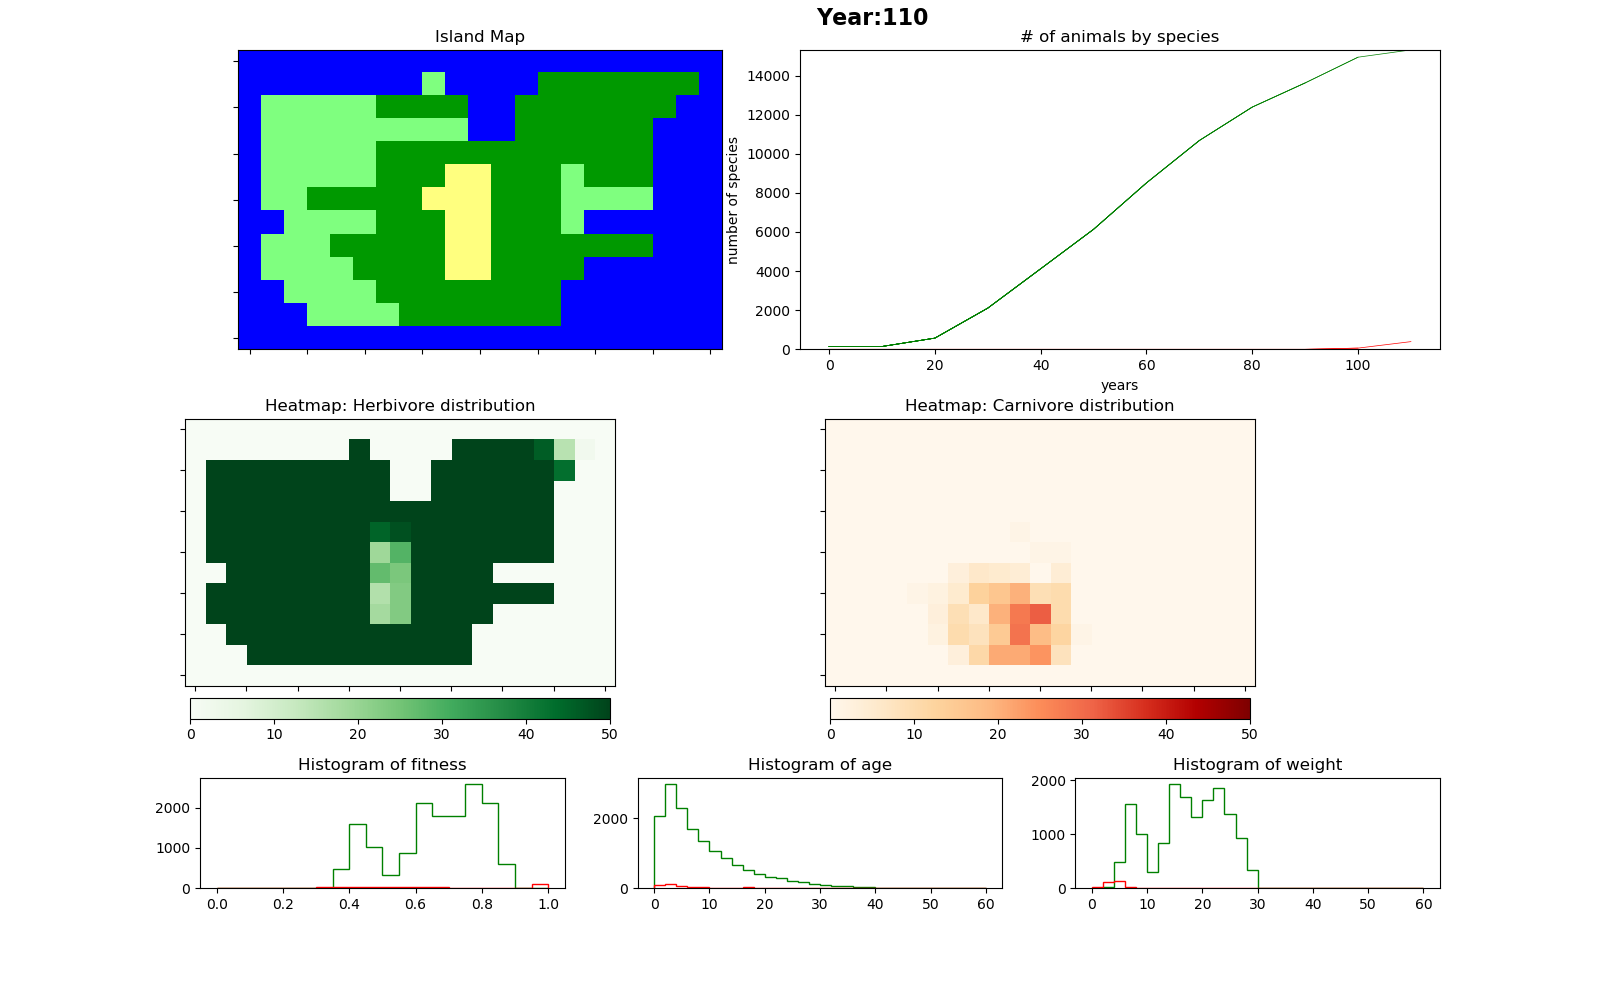
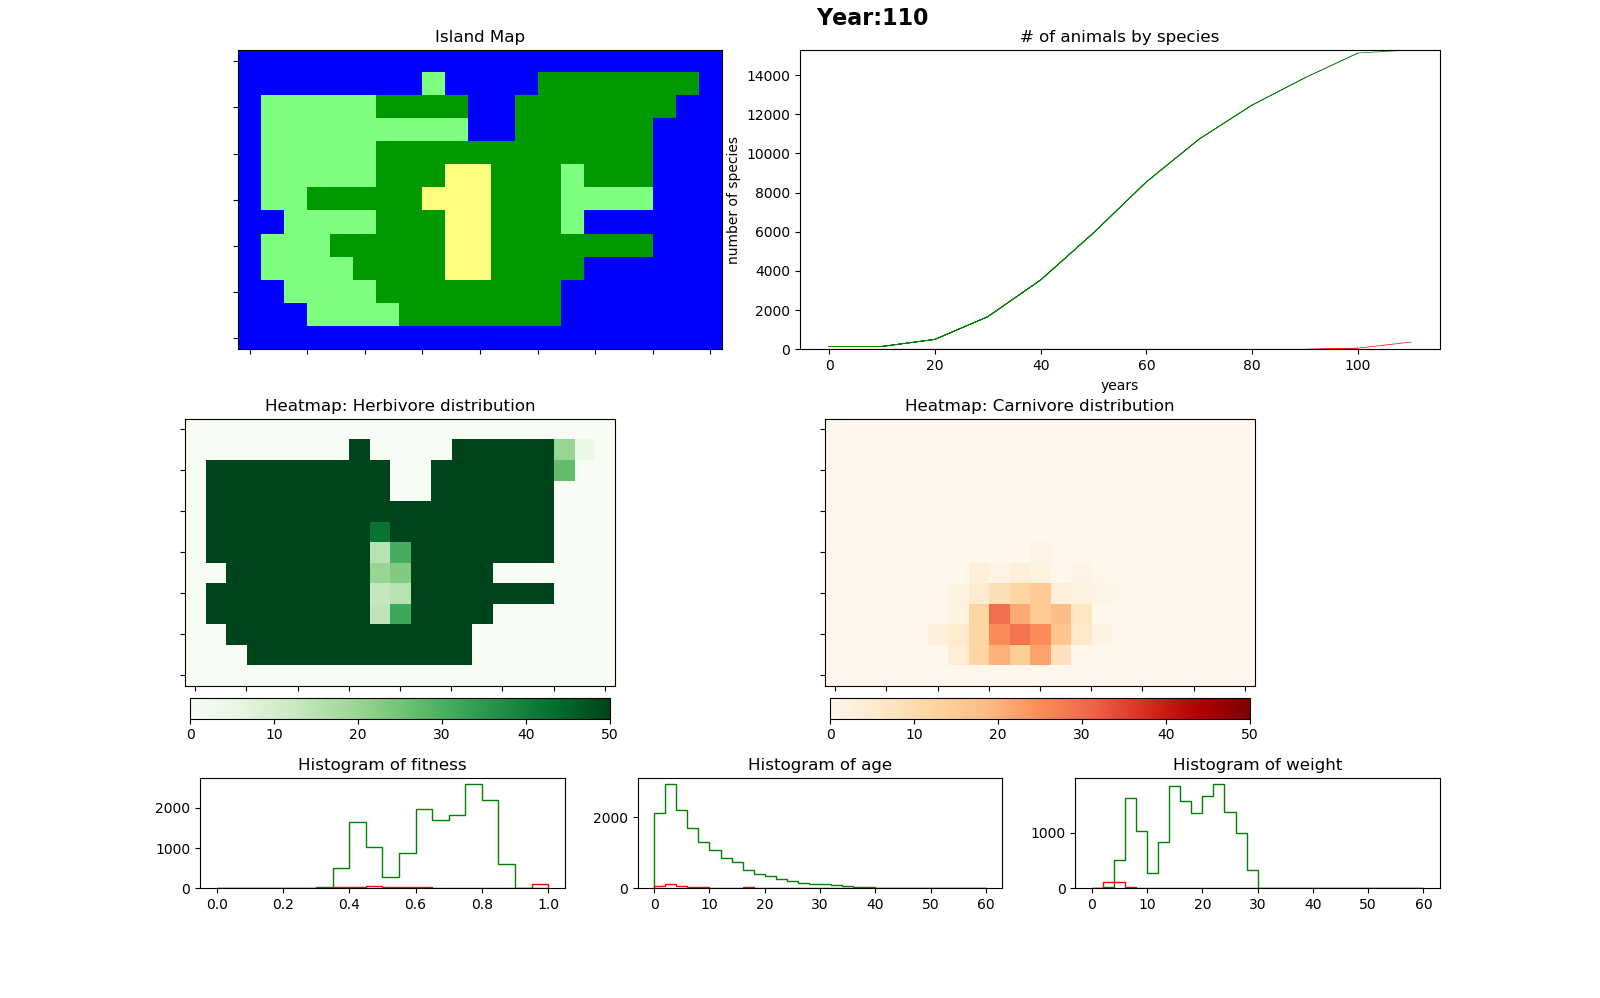
Fixed some docstrings in visualization. One issue is that vis_year intervals double when img_years is higher than the vis_years in check_sim

diff --git a/biosim/visualization.py b/biosim/visualization.py
@@ -80,8 +80,10 @@ class Visualization:
     def update_graphics(self, years, distribution_array=None, num_species_dict=None):
         """
         Updates the heatmaps and graphs
-        :param distribution_array:
+        :param distribution_array: 2D numpy array that resembles the heatmap,
+        number of specific animal in each cell.
         :param num_species_dict: a dict containing the total number of animals per species
+        :param  years is the vis_years which is used to scale the axes on the line plot.
         :return: None
         """
         self.steps +=1
@@ -137,6 +139,13 @@ class Visualization:
     def histogram_fitness_updates(self, fitness_list_herb=None,
                                   fitness_list_carn=None,
                                   hist_spec_dict=None):
+        """
+        Updates the histogram for fitness continously as we run the simulation.
+        :param fitness_list_herb: list of fitness for current_herbivores in map
+        :param fitness_list_carn: list of fitness for current_carnivores in map
+        :param hist_spec_dict: dict containing parameters in order to plot axes.
+        :return: None
+        """
 
         if hist_spec_dict is None:
             self.fitness_ax.clear()
@@ -157,6 +166,13 @@ class Visualization:
     def histogram_age_updates(self, age_list_herb=None,
                               age_list_carn=None,
                               hist_spec_dict=None):
+        """
+        Updates the histogram for age continously as we run the simulation.
+        :param age_list_herb: list of age for current_herbivores in map
+        :param age_list_carn: list of age for current_carnivores in map
+        :param hist_spec_dict: hist_spec_dict: dict containing parameters in order to plot axes.
+        :return: None
+        """
 
         if hist_spec_dict is None:
             self.age_ax.clear()
@@ -177,6 +193,13 @@ class Visualization:
     def histogram_weight_updates(self, weight_list_herb=None,
                                  weight_list_carn=None,
                                  hist_spec_dict=None):
+        """
+         Updates the histogram for weight continously as we run the simulation.
+        :param weight_list_herb: list of weight for current_herbivores in map
+        :param weight_list_carn: list of weight for current_carnivores in map
+        :param hist_spec_dict: hist_spec_dict: dict containing parameters in order to plot axes.
+        :return: None
+        """
 
         if hist_spec_dict is None:
             self.weight_ax.clear()
@@ -193,9 +216,3 @@ class Visualization:
                                 range=(0, hist_spec_dict['weight']['max']))
             self.weight_ax.hist(weight_list_carn, bins=fit_bins, histtype='step', color='r',
                                 range=(0, hist_spec_dict['weight']['max']))
-
-
-if __name__ == "__main__":
-    v = Visualization()
-    v.graphics_setup()
-    plt.show()

diff --git a/biosim/simulation.py b/biosim/simulation.py
@@ -17,24 +17,10 @@ _DEFAULT_MOVIE_FORMAT = 'mp4'
 
 
 class BioSim:
-    """
-    This is the main interface class
-    """
 
     def __init__(self, island_map, ini_pop, seed=1,
                  ymax_animals=None, cmax_animals=None, hist_specs=None,
                  img_base=None, img_fmt="png"):
-        """
-        Init for biosim class.
-        :param island_map:
-        :param ini_pop:
-        :param seed:
-        :param ymax_animals:
-        :param cmax_animals:
-        :param hist_specs:
-        :param img_base:
-        :param img_fmt:
-        """
 
         np.random.seed(seed)
         self._year = 0

diff --git a/examples/check_sim.py b/examples/check_sim.py
@@ -59,10 +59,10 @@ if __name__ == '__main__':
                                             'DeltaPhiMax': 9.})
     sim.set_landscape_parameters('L', {'f_max': 700})
 
-    sim.simulate(num_years=100, vis_years=1, img_years=2000)
+    sim.simulate(num_years=100, vis_years=10, img_years=10)
 
     sim.add_population(population=ini_carns)
-    sim.simulate(num_years=300, vis_years=1, img_years=2000)
+    sim.simulate(num_years=300, vis_years=10, img_years=10)
 
     plt.savefig('check_sim.pdf')
 
